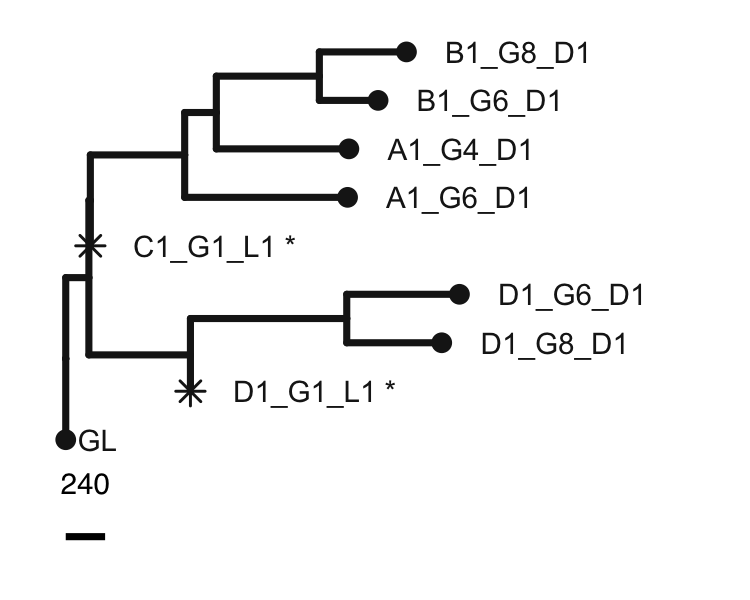
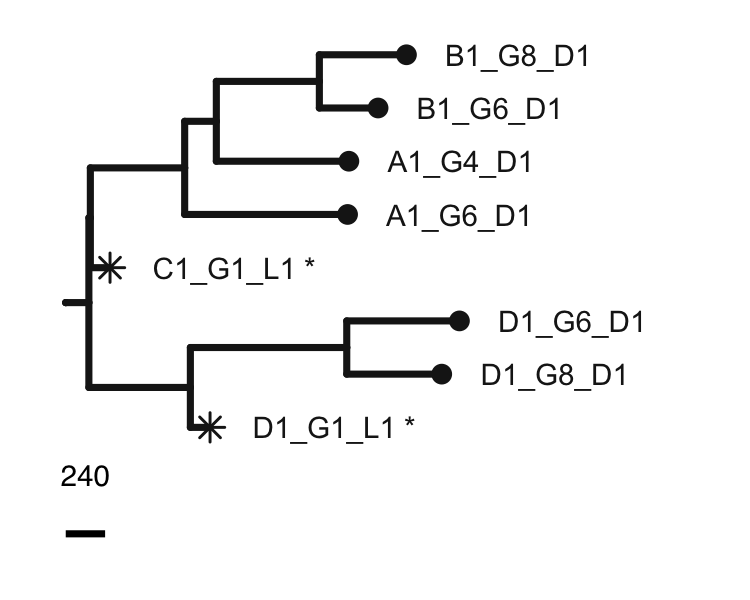
Update of README

diff --git a/README.md b/README.md
@@ -114,9 +114,9 @@ tree_with_lp_added =
     ## 
     ## New values:
     ## 
-    ## - Background rate: 0.01 -> 1e-12 
+    ## - Background rate: 0.01 -> 2.220446e-16 
     ## - Purity: 1 -> 0.8314804 
-    ## - MLL: -349.4508 -> -192.6926 
+    ## - MLL: -349.4509 -> -192.6926 
     ## 
     ## => Added sample (confidence: 1)
     ## 
@@ -127,9 +127,9 @@ tree_with_lp_added =
     ## 
     ## New values:
     ## 
-    ## - Background rate: 0.01 -> 0.0001978774 
-    ## - Purity: 1 -> 0.5211233 
-    ## - MLL: -911.8315 -> -727.613 
+    ## - Background rate: 0.01 -> 0.0001978821 
+    ## - Purity: 1 -> 0.5211217 
+    ## - MLL: -911.832 -> -727.613 
     ## 
     ## => Added sample (confidence: 1)
     ## 
@@ -140,9 +140,11 @@ tree_with_lp_added =
 ``` r
 labeller_function = function(x) gsub("EPICC_C[0-9]+_", "", x)
 
-MLLPT::plot_tree(
-    tree_with_lp_added,
-    labeller_function = labeller_function,
+tree_with_lp_added$tree %>% 
+  MLLPT:::remove_root_tip("GL") %>%  
+  MLLPT::set_lp_tiplength(0.05) %>% 
+  MLLPT::plot_tree(
+    labeller_function = labeller_function, 
     pointsize = 2, 
     linewidth = 0.8
   )
